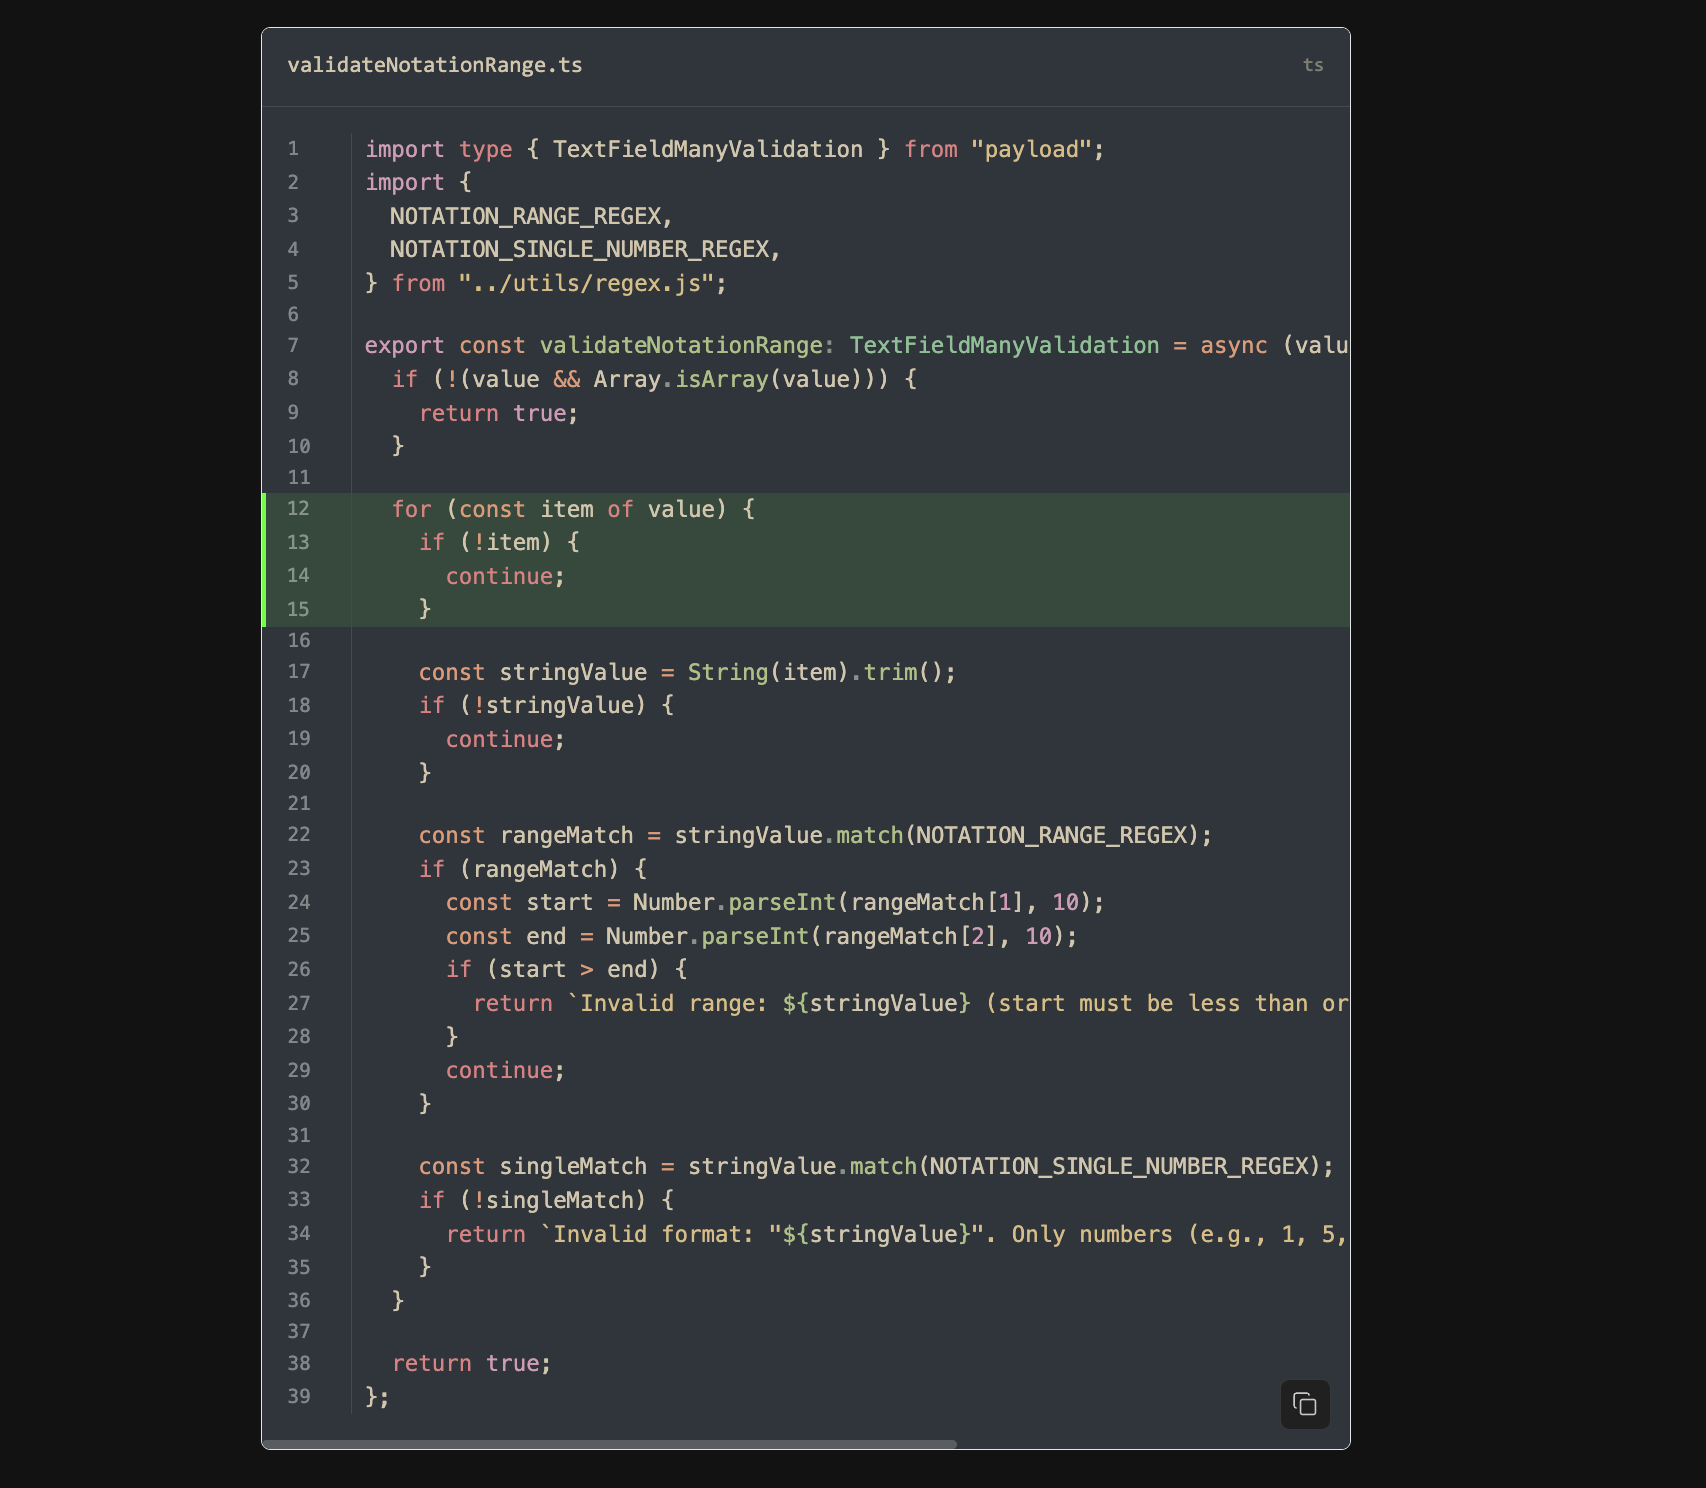
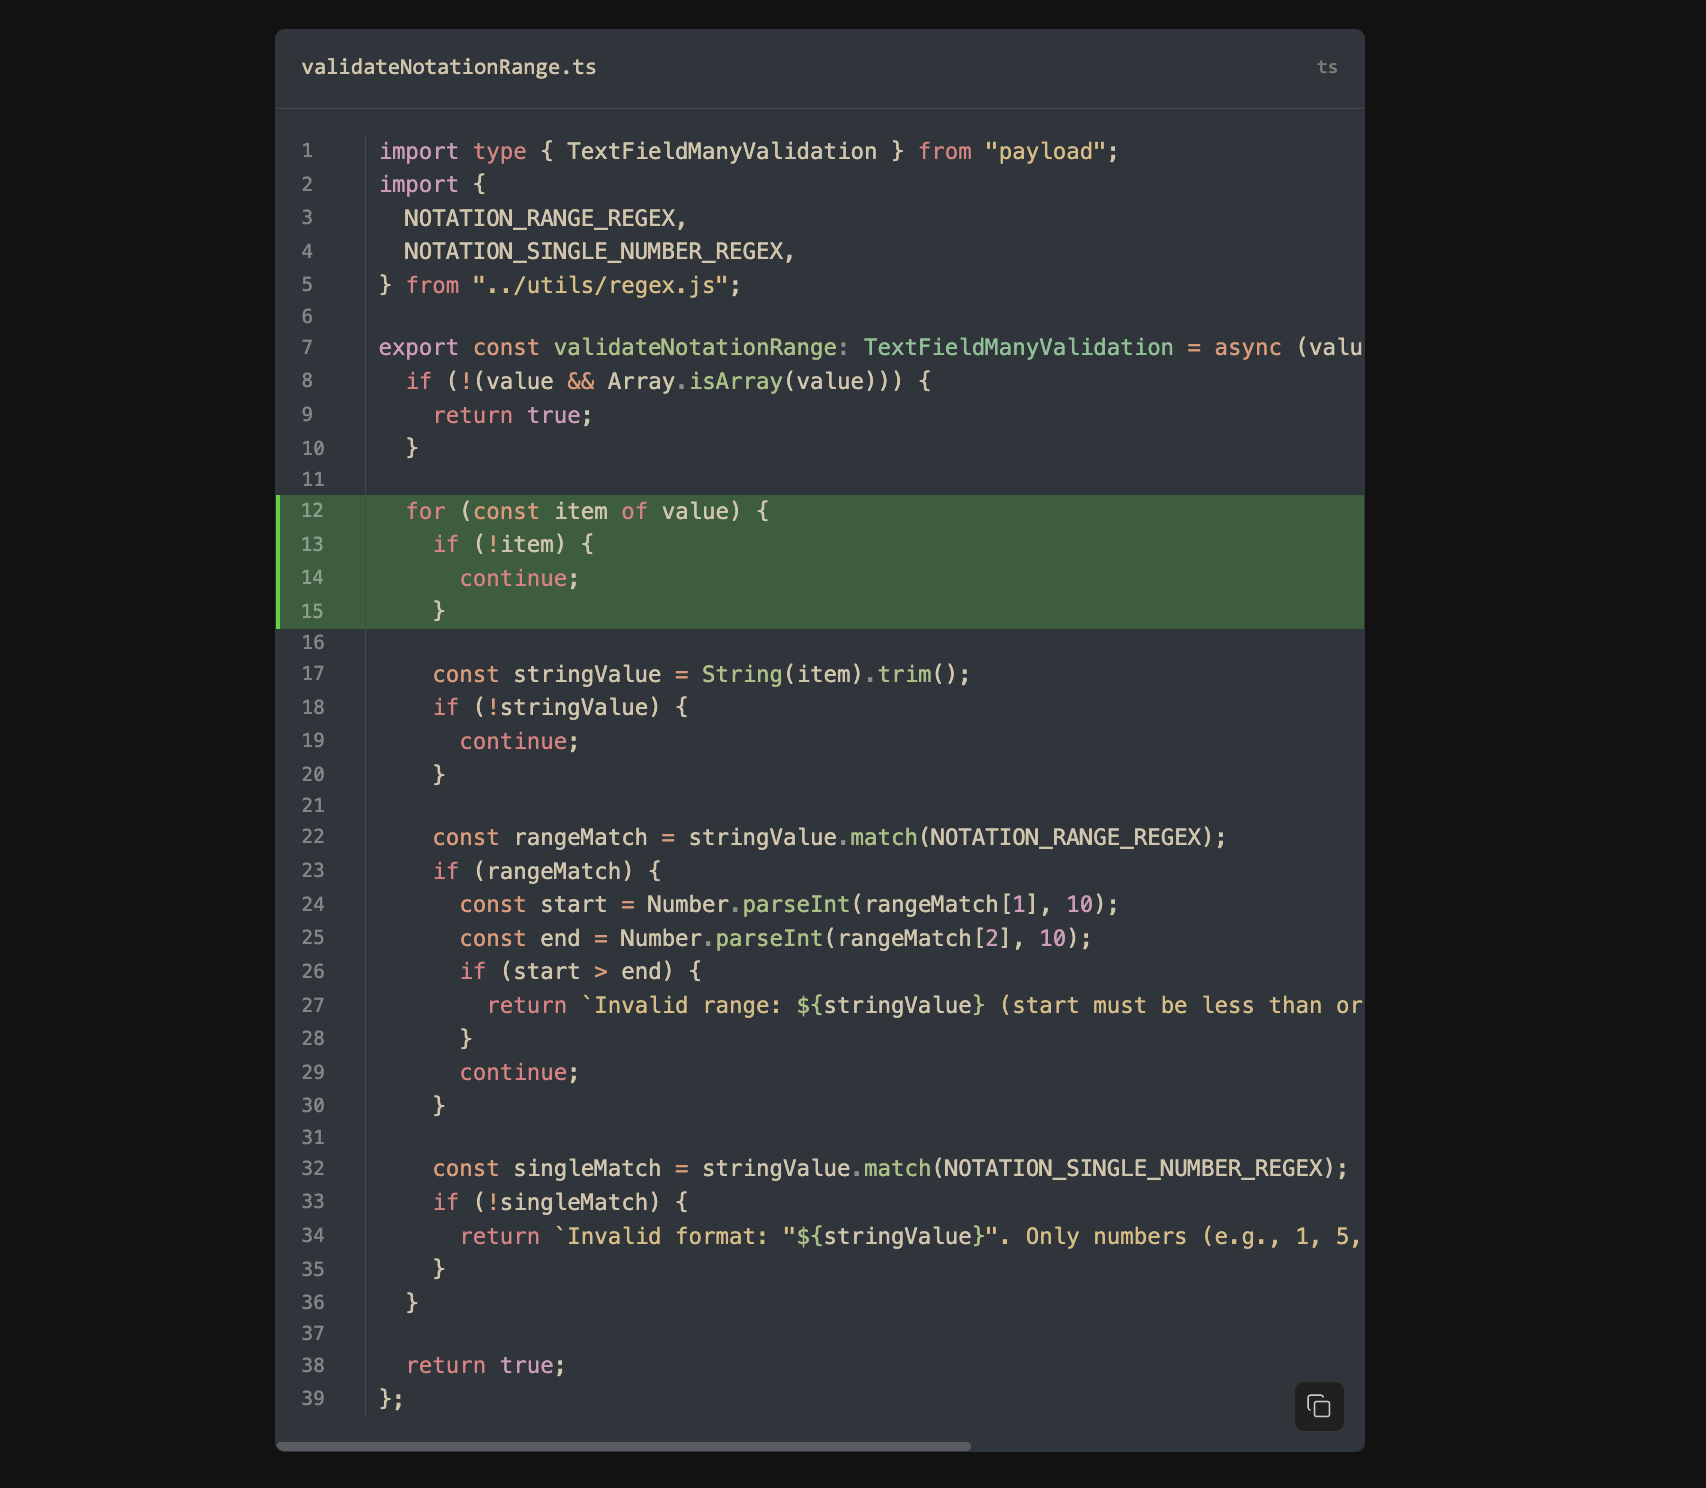
chore: update demo images

diff --git a/src/components/styles.css b/src/components/styles.css
@@ -51,6 +51,15 @@
   transition: all 0.15s ease;
   backdrop-filter: blur(8px);
   -webkit-backdrop-filter: blur(8px);
+  opacity: 0;
+  pointer-events: none;
+}
+
+/* Show copy button on container hover */
+.shiki-container:hover .shiki-copy-button,
+.shiki-copy-button:focus {
+  opacity: 1;
+  pointer-events: auto;
 }
 
 .shiki-copy-button:hover {
